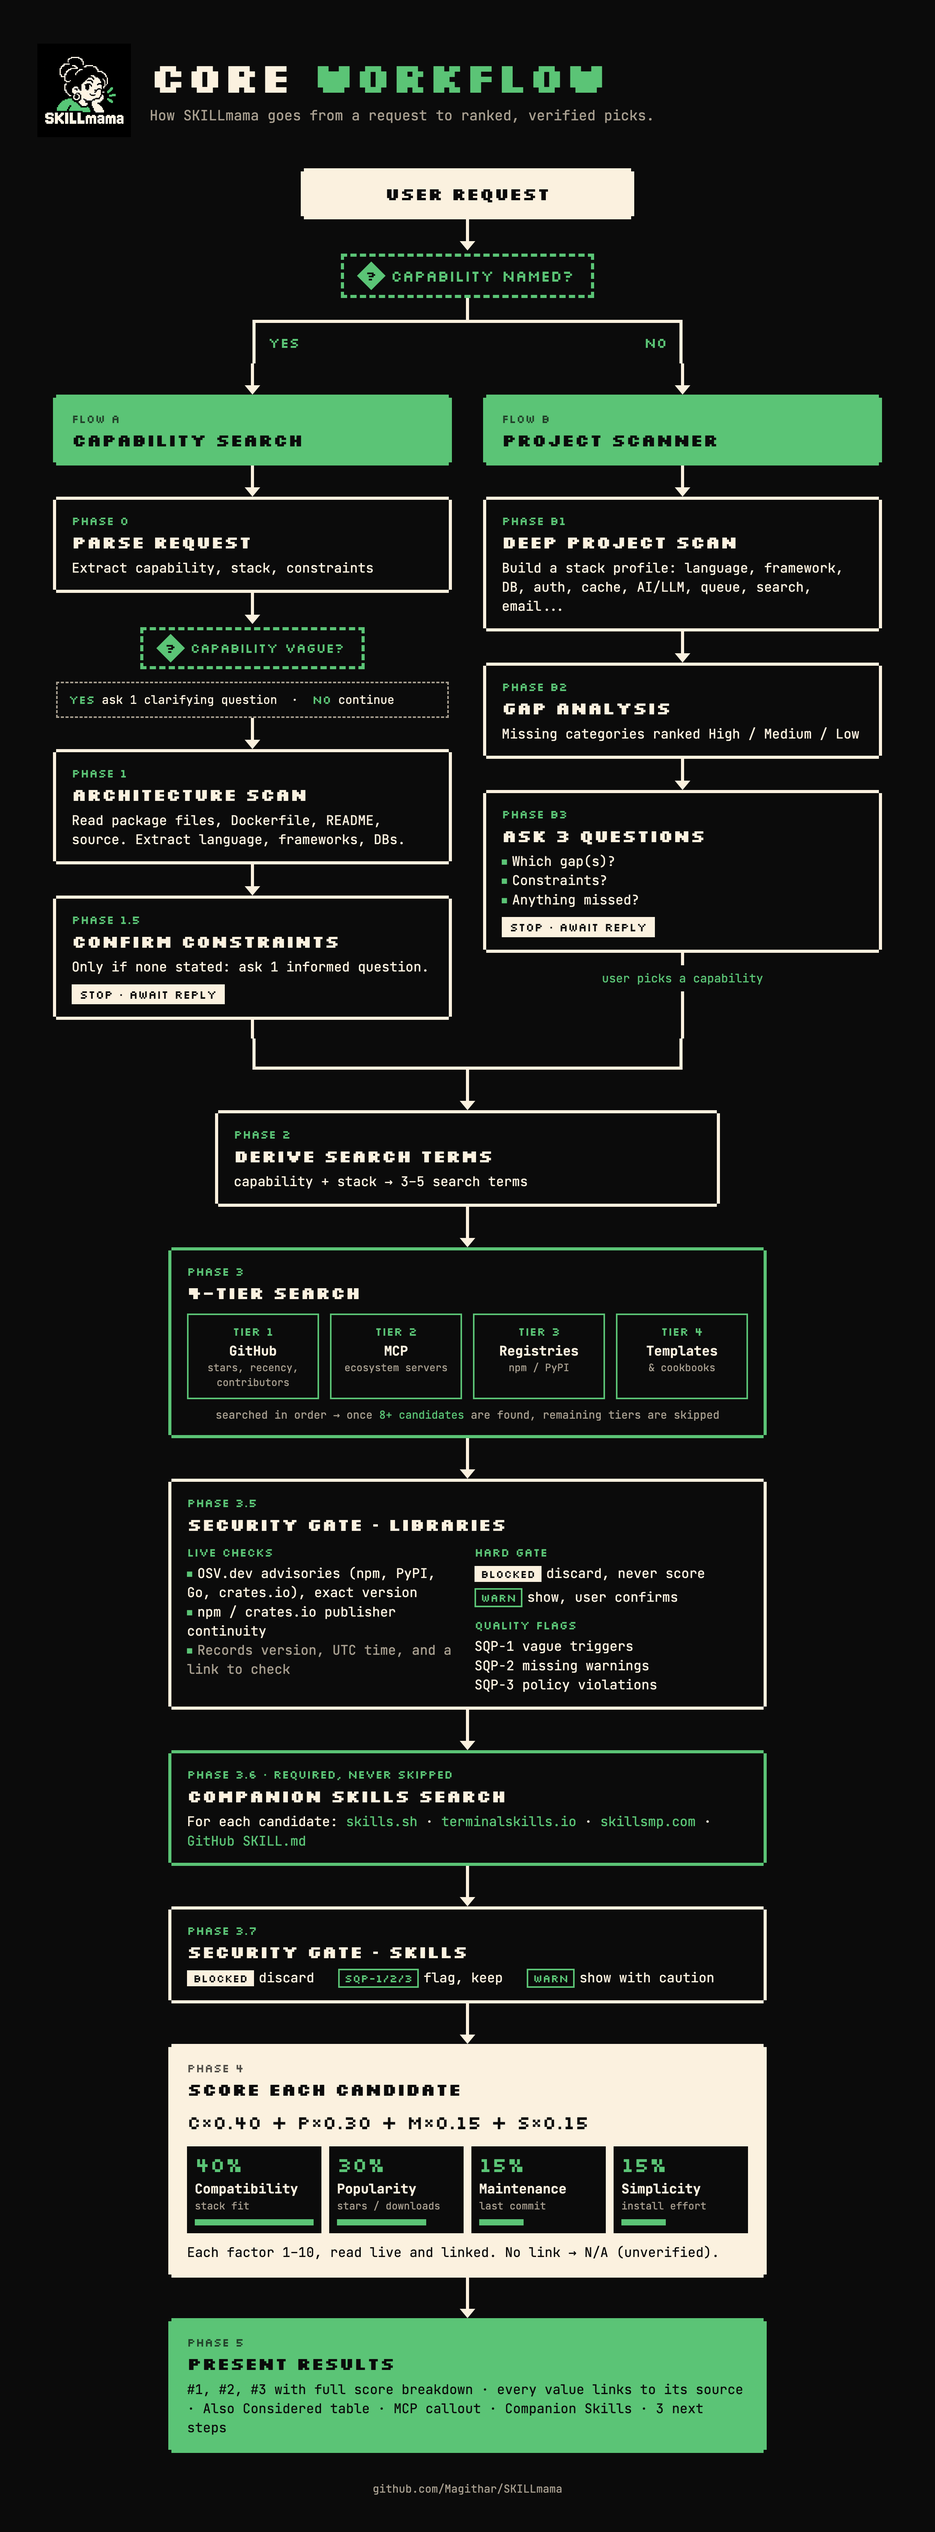
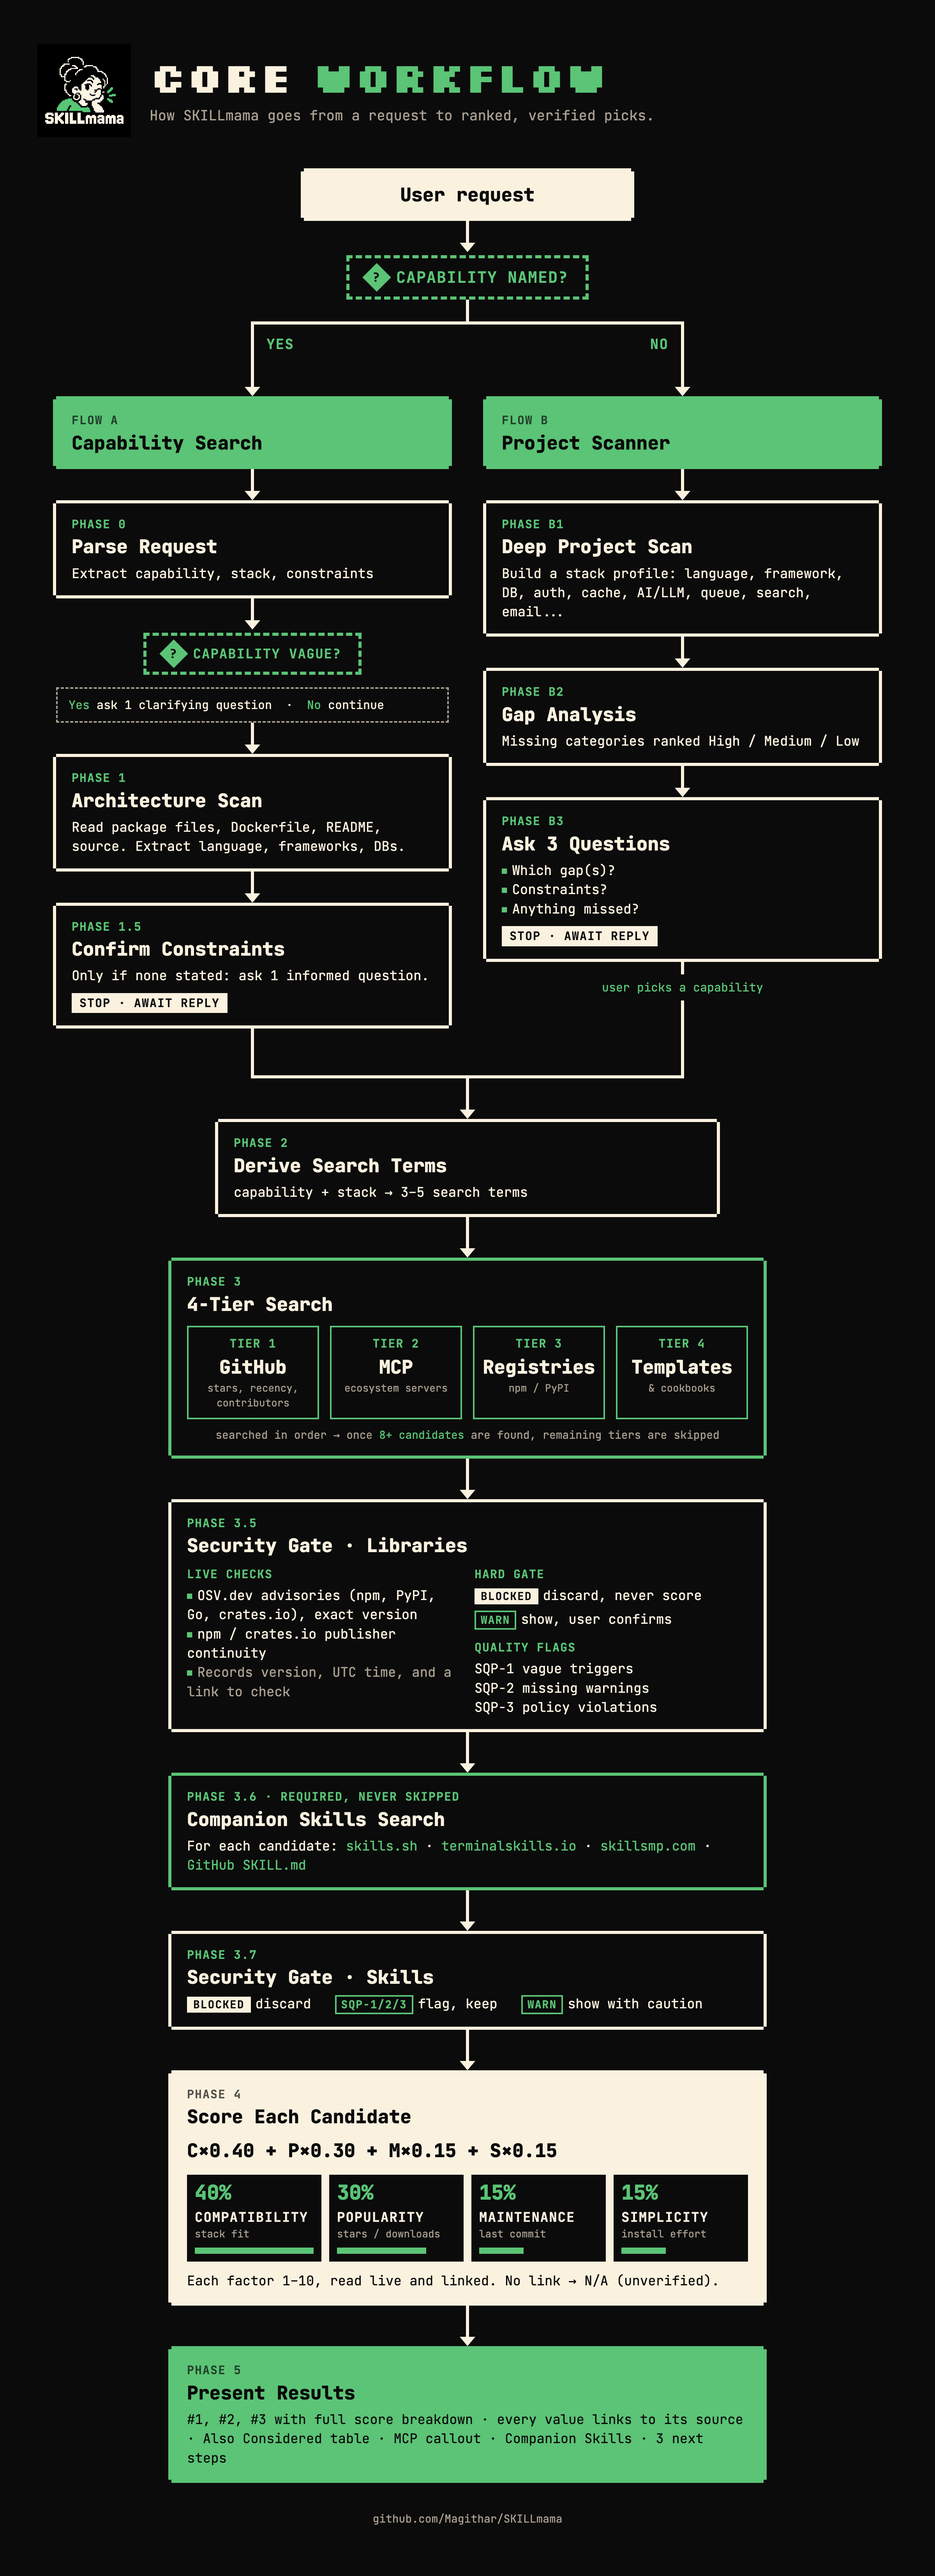
Diagrams: use readable fonts and straighten the core workflow connectors

Changed region(s): [[0.0625, 0.0625, 0.9375, 0.9994], [0.75, 0.3748, 0.8125, 0.406], [0.0625, 0.0312, 0.125, 0.0625]]

diff --git a/assets/source/core-workflow.html b/assets/source/core-workflow.html
@@ -4,7 +4,7 @@
 <meta charset="utf-8">
 <title>SKILLmama Core Workflow</title>
 <link rel="preconnect" href="https://fonts.googleapis.com">
-<link href="https://fonts.googleapis.com/css2?family=Silkscreen:wght@400;700&family=JetBrains+Mono:wght@400;600;700&display=block" rel="stylesheet">
+<link href="https://fonts.googleapis.com/css2?family=Silkscreen:wght@700&family=JetBrains+Mono:wght@400;600;700;800&display=block" rel="stylesheet">
 <style>
   :root {
     --bg: #0b0b0b;
@@ -23,12 +23,12 @@
     width: 1200px;
     padding: 56px 48px 64px;
   }
-  .pixel { font-family: "Silkscreen", "JetBrains Mono", monospace; letter-spacing: 0.5px; }
+  .pixel { font-family: "JetBrains Mono", monospace; letter-spacing: 0.5px; }
 
   /* header */
   header { display: flex; align-items: center; gap: 24px; margin-bottom: 44px; }
   header img { width: 120px; height: 120px; image-rendering: pixelated; }
-  header h1 { font-family: "Silkscreen", monospace; font-size: 54px; font-weight: 700; line-height: 1; }
+  header h1 { font-family: "JetBrains Mono", monospace; font-size: 54px; font-weight: 700; line-height: 1; }
   header h1 span { color: var(--green); }
   header p { color: var(--dim); margin-top: 10px; font-size: 18px; }
 
@@ -58,11 +58,11 @@
       calc(-1 * var(--px)) 0 0 0 var(--green),
       var(--px) 0 0 0 var(--green); }
   .tag {
-    font-family: "Silkscreen", monospace; font-size: 15px; color: var(--green);
+    font-family: "JetBrains Mono", monospace; font-size: 15px; color: var(--green);
     display: block; margin-bottom: 4px;
   }
   .box.solid .tag, .box.solid-green .tag { color: var(--bg); opacity: .7; }
-  .title { font-family: "Silkscreen", monospace; font-size: 22px; font-weight: 700; line-height: 1.15; }
+  .title { font-family: "JetBrains Mono", monospace; font-size: 22px; font-weight: 700; line-height: 1.15; }
   .body { margin-top: 8px; color: var(--cream); }
   .box.solid .body, .box.solid-green .body { color: var(--bg); }
   .muted { color: var(--dim); }
@@ -91,15 +91,15 @@
     display: flex; align-items: center; justify-content: center; gap: 12px;
     width: fit-content; margin: 16px auto 0; padding: 10px 22px;
     border: var(--px) dashed var(--green); color: var(--green);
-    font-family: "Silkscreen", monospace; font-size: 20px;
+    font-family: "JetBrains Mono", monospace; font-size: 20px;
   }
   .decision .q { width: 26px; height: 26px; background: var(--green); color: var(--bg); transform: rotate(45deg);
     display: grid; place-items: center; }
   .decision .q span { transform: rotate(-45deg); font-size: 16px; font-weight: 700; }
 
   /* split / merge connectors */
-  .split { position: relative; height: 56px; margin: 0 25%; border: var(--px) solid var(--cream); border-bottom: 0; margin-top: 0; }
-  .split-label { position: absolute; top: 12px; font-family: "Silkscreen", monospace; font-size: 18px; color: var(--green); }
+  .split { position: relative; height: 56px; margin: 0 calc(25% - var(--px) / 2); border: var(--px) solid var(--cream); border-bottom: 0; margin-top: 0; }
+  .split-label { position: absolute; top: 12px; font-family: "JetBrains Mono", monospace; font-size: 18px; color: var(--green); }
   .split-label.l { left: 16px; } .split-label.r { right: 16px; }
   .stem { width: var(--px); height: 28px; background: var(--cream); margin: 0 auto; }
 
@@ -107,38 +107,46 @@
   .col { display: flex; flex-direction: column; padding: 0 24px; }
   .col > .box { width: 100%; margin-left: 0; margin-right: 0; }
   .col .fill { flex: 1; width: var(--px); background: var(--cream); margin: 0 auto; min-height: 24px; }
-  .merge { height: 40px; margin: 0 25%; border: var(--px) solid var(--cream); border-top: 0; }
+  .merge { height: 40px; margin: 0 calc(25% - var(--px) / 2); border: var(--px) solid var(--cream); border-top: 0; }
 
   .side-row { display: grid; grid-template-columns: 1fr; gap: 10px; margin-top: 16px; }
   .note { border: 2px dashed var(--dim); padding: 10px 14px; color: var(--cream); font-size: 15px; }
-  .note b { color: var(--green); font-family: "Silkscreen", monospace; font-weight: 400; }
+  .note b { color: var(--green); font-family: "JetBrains Mono", monospace; font-weight: 400; }
   .stop { display: inline-block; margin-top: 10px; background: var(--cream); color: var(--bg);
-    font-family: "Silkscreen", monospace; padding: 2px 10px; font-size: 15px; }
+    font-family: "JetBrains Mono", monospace; padding: 2px 10px; font-size: 15px; }
   .pick { text-align: center; color: var(--green); font-size: 15px; margin: 6px 0; }
 
   /* tiers */
   .tiers { display: grid; grid-template-columns: repeat(4, 1fr); gap: 14px; margin-top: 14px; }
   .tier { border: 2px solid var(--green); padding: 10px; text-align: center; }
-  .tier .n { font-family: "Silkscreen", monospace; color: var(--green); font-size: 15px; }
+  .tier .n { font-family: "JetBrains Mono", monospace; color: var(--green); font-size: 15px; }
   .tier .t { font-weight: 700; margin-top: 2px; }
   .tier .s { font-size: 13px; color: var(--dim); }
   .tier-flow { text-align: center; color: var(--dim); font-size: 14px; margin-top: 10px; }
 
   .gate-grid { display: grid; grid-template-columns: 1fr 1fr; gap: 18px; margin-top: 12px; }
-  .gate-grid h4 { font-family: "Silkscreen", monospace; font-weight: 400; color: var(--green); font-size: 15px; margin-bottom: 4px; }
-  .badge { display: inline-block; font-family: "Silkscreen", monospace; font-size: 14px; padding: 0 8px; margin-right: 6px; }
+  .gate-grid h4 { font-family: "JetBrains Mono", monospace; font-weight: 400; color: var(--green); font-size: 15px; margin-bottom: 4px; }
+  .badge { display: inline-block; font-family: "JetBrains Mono", monospace; font-size: 14px; padding: 0 8px; margin-right: 6px; }
   .badge.block { background: var(--cream); color: var(--bg); }
   .badge.warn { border: 2px solid var(--green); color: var(--green); padding: 0 6px; }
 
-  .formula { font-family: "Silkscreen", monospace; font-size: 24px; margin: 12px 0 14px; color: var(--bg); }
+  .formula { font-family: "JetBrains Mono", monospace; font-size: 24px; margin: 12px 0 14px; color: var(--bg); }
   .weights { display: grid; grid-template-columns: repeat(4, 1fr); gap: 10px; }
   .weight { background: var(--bg); color: var(--cream); padding: 10px; }
-  .weight .pct { font-family: "Silkscreen", monospace; font-size: 26px; color: var(--green); line-height: 1; }
+  .weight .pct { font-family: "JetBrains Mono", monospace; font-size: 26px; color: var(--green); line-height: 1; }
   .weight .k { font-weight: 700; margin-top: 6px; }
   .weight .d { font-size: 13px; color: var(--dim); }
   .bar { height: 8px; background: var(--green); margin-top: 8px; }
 
   footer { margin-top: 40px; text-align: center; color: var(--dim); font-size: 14px; }
+
+  /* fonts: pixel face for the page title only, mono for everything small */
+  h1 { font-family: "Silkscreen", "JetBrains Mono", monospace !important; font-size: 54px !important; }
+  .title, .src, .t, .formula, .weight .pct, .tier .num .n, .input .v, .out .v { font-weight: 800 !important; letter-spacing: 0; }
+  .title, .src, .t { font-size: 24px !important; }
+  .tag, .split-label, .decision, .check, .stop, .badge, .tier .n:not(.tier .num .n), .tier .num .l,
+  .input .k, .gate-grid h4, .tier .sig .h, .companion .tag, .divider, .weight .k {
+    text-transform: uppercase; letter-spacing: 1px; font-weight: 700; }
 </style>
 </head>
 <body>

diff --git a/assets/source/four-tier-search.html b/assets/source/four-tier-search.html
@@ -3,7 +3,7 @@
 <head>
 <meta charset="utf-8">
 <title>SKILLmama 4-Tier Search</title>
-<link href="https://fonts.googleapis.com/css2?family=Silkscreen:wght@400;700&family=JetBrains+Mono:wght@400;600;700&display=block" rel="stylesheet">
+<link href="https://fonts.googleapis.com/css2?family=Silkscreen:wght@700&family=JetBrains+Mono:wght@400;600;700;800&display=block" rel="stylesheet">
 <style>
   :root { --bg: #0b0b0b; --cream: #fbf1df; --green: #5bc476; --dim: #a89f90; --px: 4px; }
   * { box-sizing: border-box; margin: 0; padding: 0; }
@@ -14,7 +14,7 @@
   }
   header { display: flex; align-items: center; gap: 24px; margin-bottom: 44px; }
   header img { width: 120px; height: 120px; }
-  header h1 { font-family: "Silkscreen", monospace; font-size: 54px; font-weight: 700; line-height: 1; }
+  header h1 { font-family: "JetBrains Mono", monospace; font-size: 54px; font-weight: 700; line-height: 1; }
   header h1 span { color: var(--green); }
   header p { color: var(--dim); margin-top: 10px; font-size: 18px; }
 
@@ -25,8 +25,8 @@
       var(--px) 0 0 0 var(--c, var(--cream)); }
 
   .input { width: 640px; margin: 4px auto 0; padding: 14px 20px; text-align: center; background: var(--cream); color: var(--bg); }
-  .input .k { font-family: "Silkscreen", monospace; font-size: 15px; opacity: .7; }
-  .input .v { font-family: "Silkscreen", monospace; font-size: 22px; font-weight: 700; }
+  .input .k { font-family: "JetBrains Mono", monospace; font-size: 15px; opacity: .7; }
+  .input .v { font-family: "JetBrains Mono", monospace; font-size: 22px; font-weight: 700; }
 
   .arrow { width: var(--px); height: 30px; background: var(--cream); margin: 4px auto 0; position: relative; }
   .arrow::after { content: ""; position: absolute; left: 50%; bottom: -12px; transform: translateX(-50%);
@@ -35,34 +35,42 @@
 
   .tier { display: grid; grid-template-columns: 150px 1fr 230px; align-items: stretch; margin: 4px; background: var(--bg); }
   .tier .num { background: var(--green); color: var(--bg); display: flex; flex-direction: column; align-items: center; justify-content: center; }
-  .tier .num .l { font-family: "Silkscreen", monospace; font-size: 15px; opacity: .75; }
-  .tier .num .n { font-family: "Silkscreen", monospace; font-size: 56px; font-weight: 700; line-height: 1; }
+  .tier .num .l { font-family: "JetBrains Mono", monospace; font-size: 15px; opacity: .75; }
+  .tier .num .n { font-family: "JetBrains Mono", monospace; font-size: 56px; font-weight: 700; line-height: 1; }
   .tier .main { padding: 16px 22px; }
-  .tier .src { font-family: "Silkscreen", monospace; font-size: 24px; font-weight: 700; line-height: 1.15; }
+  .tier .src { font-family: "JetBrains Mono", monospace; font-size: 24px; font-weight: 700; line-height: 1.15; }
   .tier .what { margin-top: 6px; }
   .tier .eg { margin-top: 6px; color: var(--dim); font-size: 15px; }
   .tier .sig { border-left: 2px dashed var(--dim); padding: 16px 18px; font-size: 15px; }
-  .tier .sig .h { font-family: "Silkscreen", monospace; color: var(--green); font-size: 14px; margin-bottom: 4px; }
+  .tier .sig .h { font-family: "JetBrains Mono", monospace; color: var(--green); font-size: 14px; margin-bottom: 4px; }
 
   .check { display: flex; align-items: center; justify-content: center; gap: 14px; margin: 18px auto 0; width: fit-content;
-    padding: 8px 18px; border: var(--px) dashed var(--green); color: var(--green); font-family: "Silkscreen", monospace; font-size: 17px; }
+    padding: 8px 18px; border: var(--px) dashed var(--green); color: var(--green); font-family: "JetBrains Mono", monospace; font-size: 17px; }
   .check .yes { background: var(--green); color: var(--bg); padding: 0 8px; }
   .between { display: flex; flex-direction: column; align-items: center; }
 
   .divider { display: flex; align-items: center; gap: 16px; margin: 40px 0 26px; color: var(--dim);
-    font-family: "Silkscreen", monospace; font-size: 15px; }
+    font-family: "JetBrains Mono", monospace; font-size: 15px; }
   .divider::before, .divider::after { content: ""; flex: 1; height: 0; border-top: 2px dashed var(--dim); }
 
   .companion { border: var(--px) dashed var(--green); padding: 18px 22px; display: grid; grid-template-columns: 1fr 1.1fr; gap: 24px; }
-  .companion .tag { font-family: "Silkscreen", monospace; color: var(--green); font-size: 15px; }
-  .companion .t { font-family: "Silkscreen", monospace; font-size: 24px; font-weight: 700; line-height: 1.15; margin: 2px 0 6px; }
+  .companion .tag { font-family: "JetBrains Mono", monospace; color: var(--green); font-size: 15px; }
+  .companion .t { font-family: "JetBrains Mono", monospace; font-size: 24px; font-weight: 700; line-height: 1.15; margin: 2px 0 6px; }
   .sites { display: grid; grid-template-columns: 1fr 1fr; gap: 10px; align-content: center; }
   .site { border: 2px solid var(--green); padding: 8px 10px; text-align: center; font-weight: 700; }
   .muted { color: var(--dim); }
   .g { color: var(--green); }
   .out { width: 640px; margin: 4px auto 0; padding: 14px 20px; text-align: center; background: var(--green); color: var(--bg); }
-  .out .v { font-family: "Silkscreen", monospace; font-size: 22px; font-weight: 700; }
+  .out .v { font-family: "JetBrains Mono", monospace; font-size: 22px; font-weight: 700; }
   footer { margin-top: 36px; text-align: center; color: var(--dim); font-size: 14px; }
+
+  /* fonts: pixel face for the page title only, mono for everything small */
+  h1 { font-family: "Silkscreen", "JetBrains Mono", monospace !important; font-size: 54px !important; }
+  .title, .src, .t, .formula, .weight .pct, .tier .num .n, .input .v, .out .v { font-weight: 800 !important; letter-spacing: 0; }
+  .title, .src, .t { font-size: 24px !important; }
+  .tag, .split-label, .decision, .check, .stop, .badge, .tier .n:not(.tier .num .n), .tier .num .l,
+  .input .k, .gate-grid h4, .tier .sig .h, .companion .tag, .divider, .weight .k {
+    text-transform: uppercase; letter-spacing: 1px; font-weight: 700; }
 </style>
 </head>
 <body>
